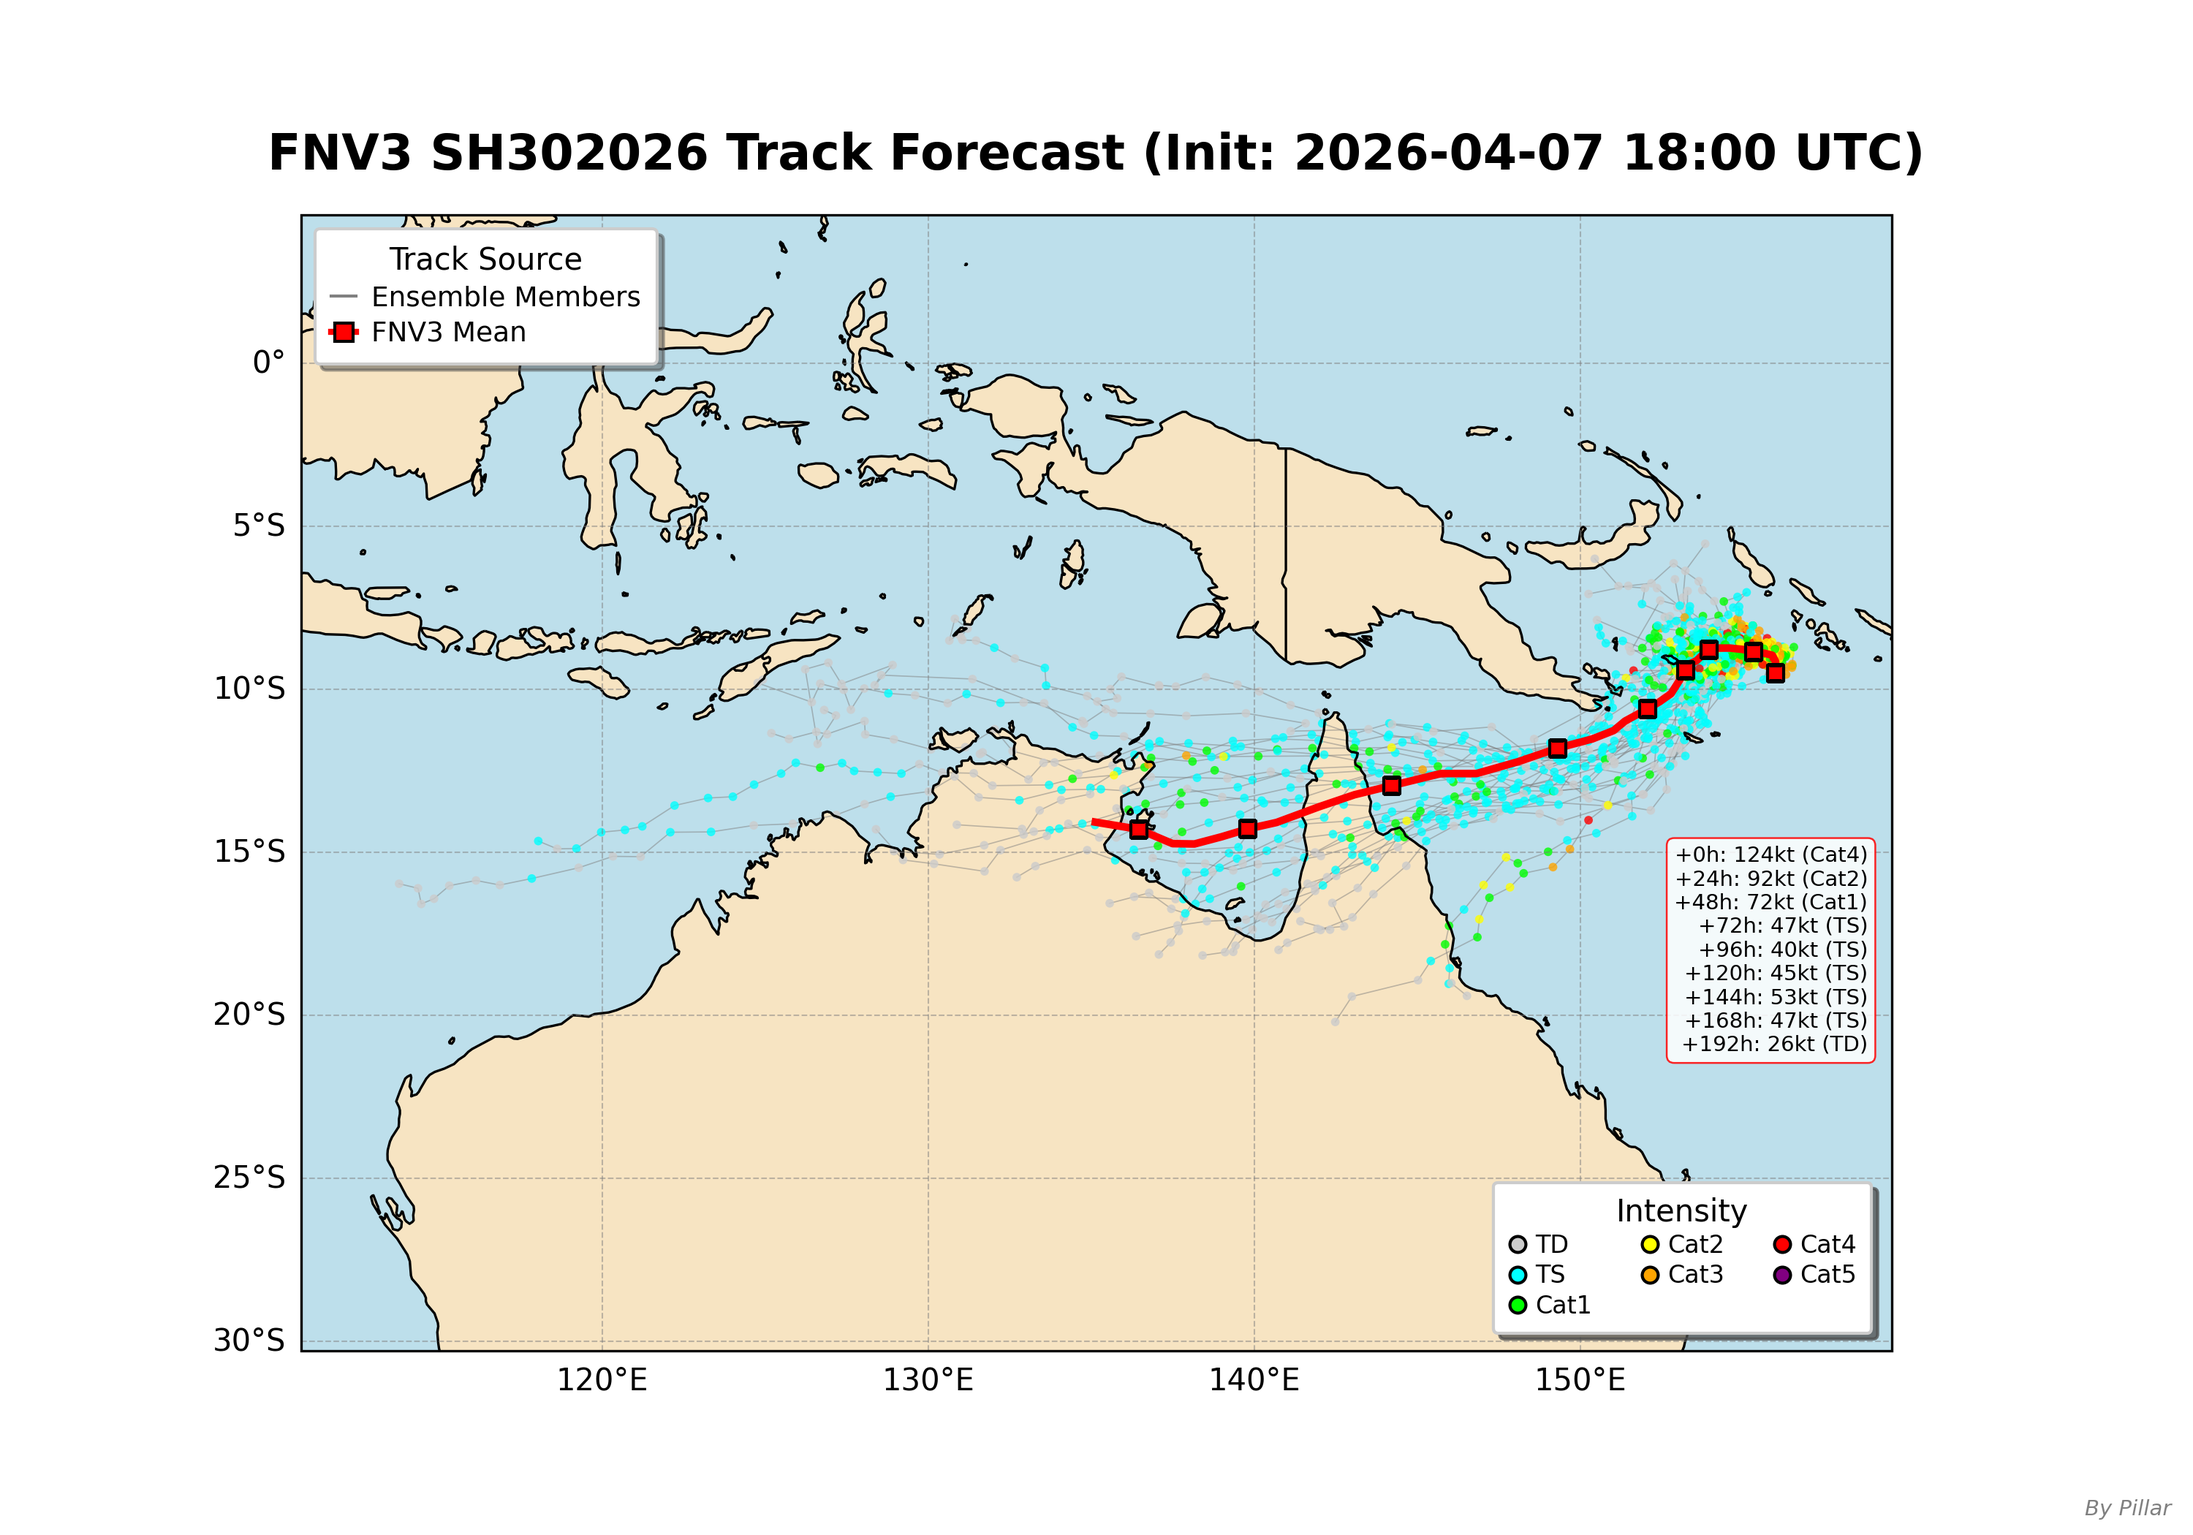
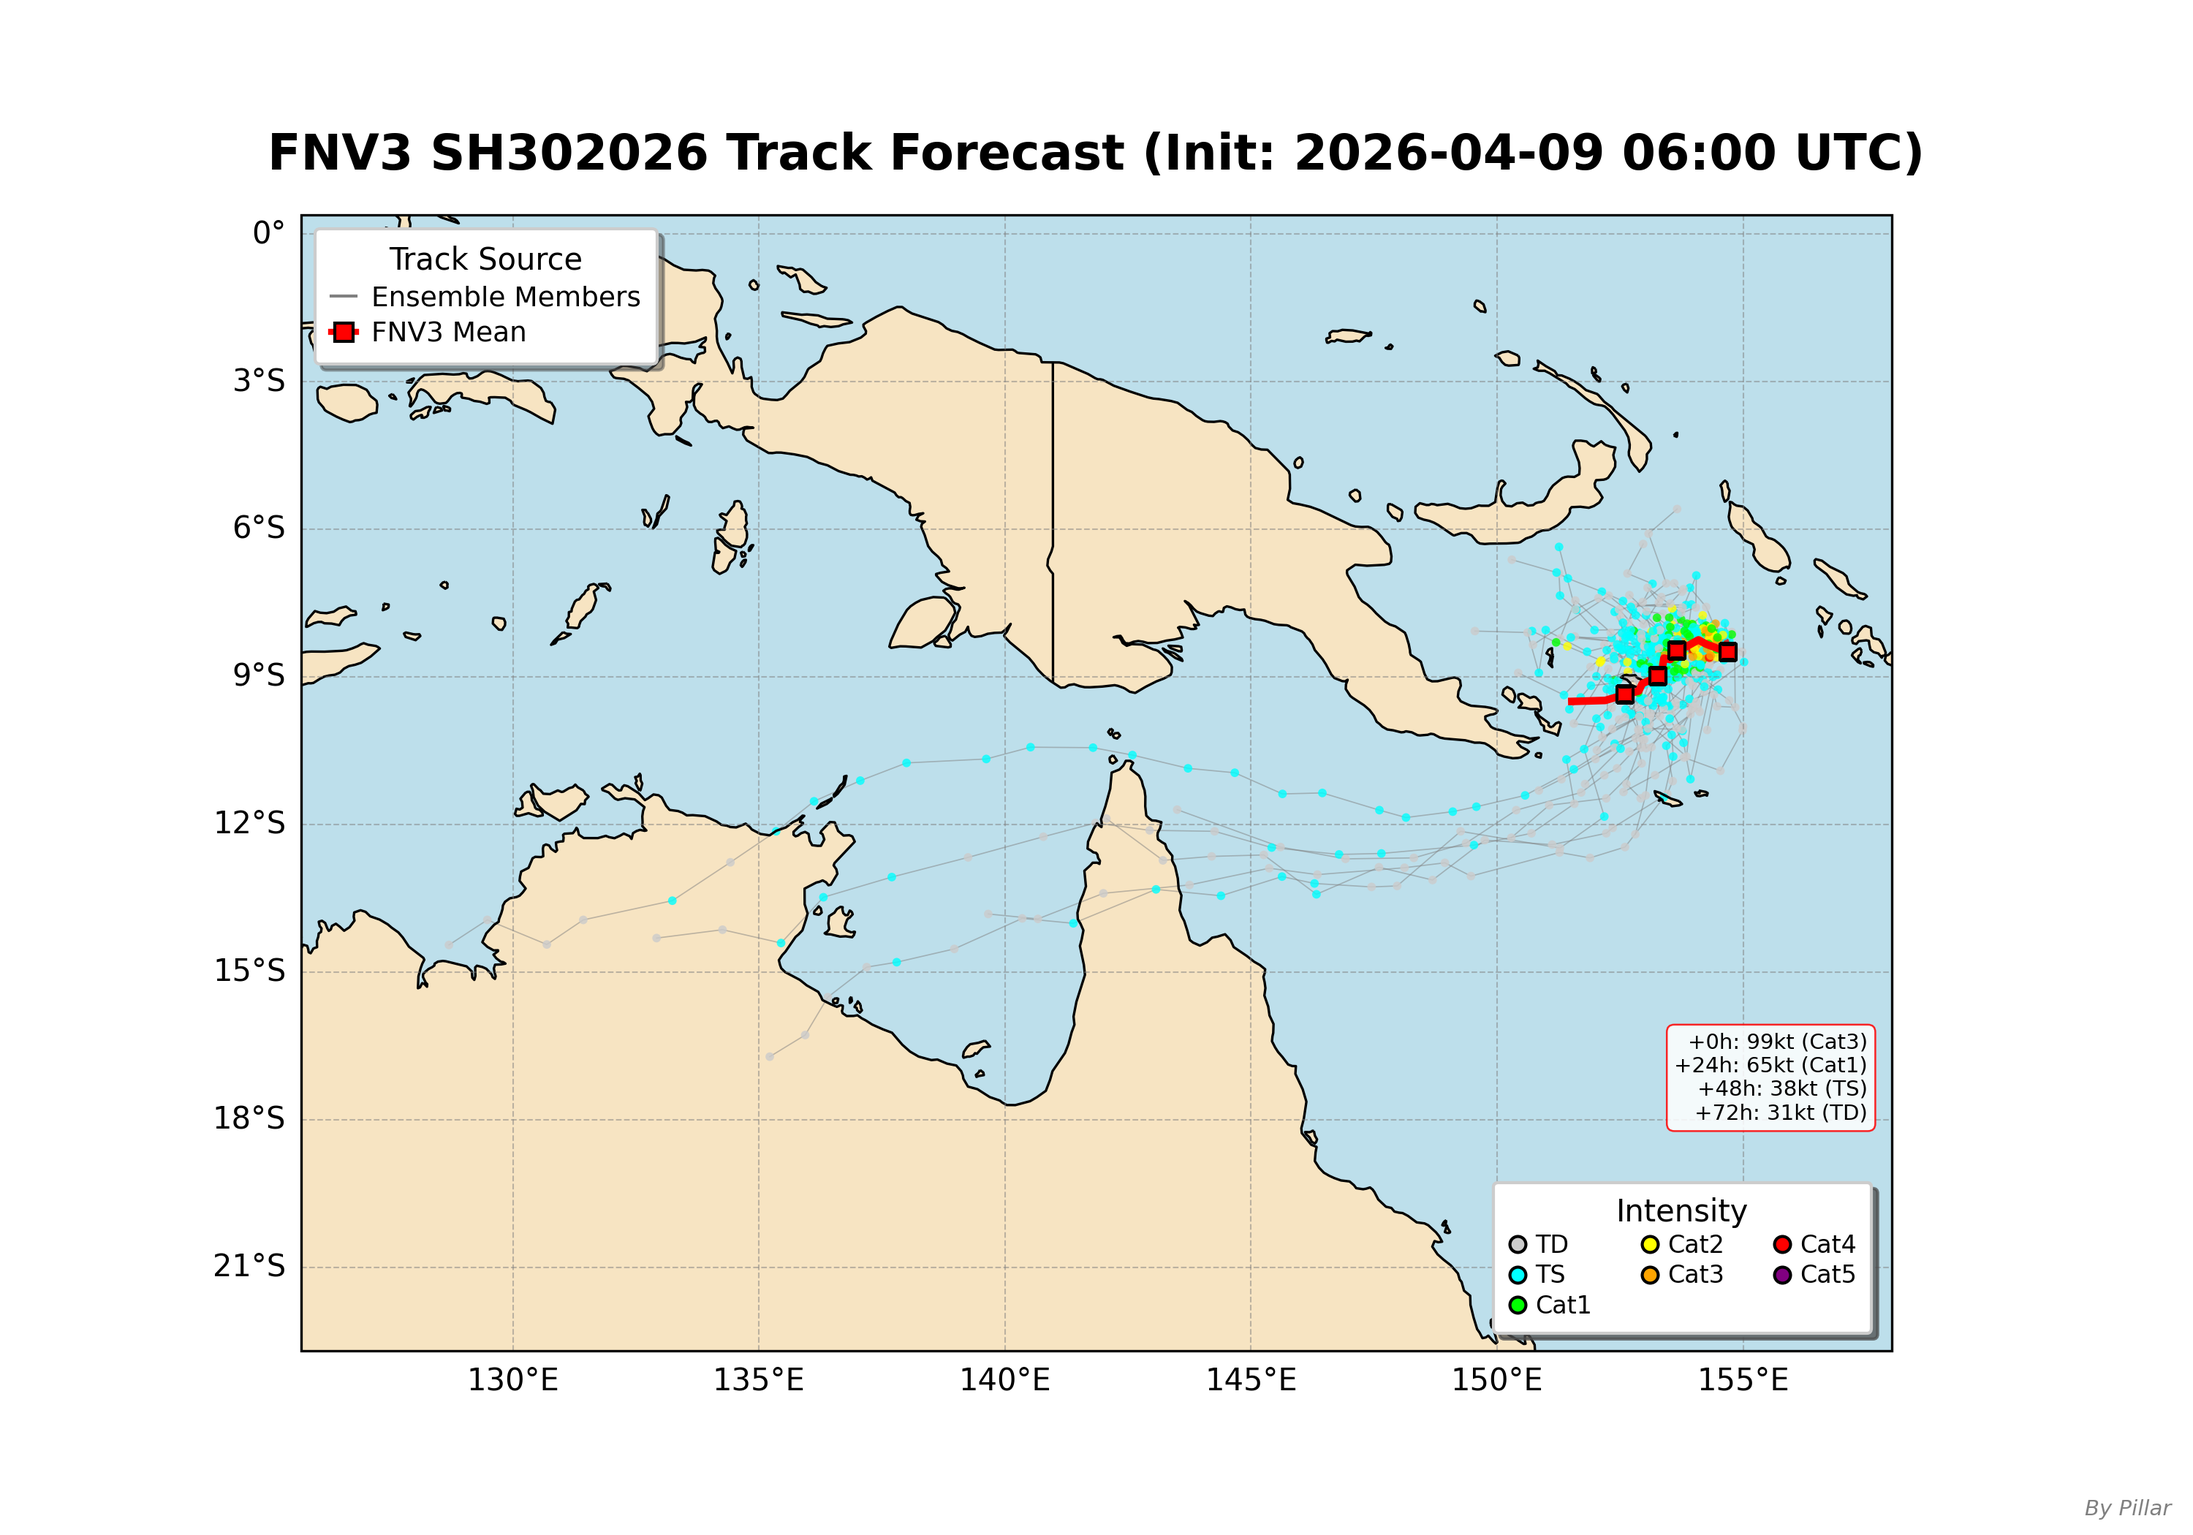
Add files via upload

diff --git a/index.html b/index.html
@@ -3,7 +3,7 @@
 <head>
     <meta charset="UTF-8">
     <meta name="viewport" content="width=device-width, initial-scale=1.0">
-    <title>Pillar's Tropical Cyclone Forecast | SH302026 / SH312026</title>
+    <title>Pillar's Tropical Cyclone Forecast | WP042026 / SH302026 / SH312026</title>
     <style>
         * {
             margin: 0;
@@ -689,13 +689,126 @@
                     <div class="subtitle">Real-time FNV3 Ensemble Forecast System</div>
                 </div>
                 <div class="update-badge">
-                    ⏰ Updated: 2026-04-08 14:01:12
+                    ⏰ Updated: 2026-04-09 22:34:19
                 </div>
             </div>
         </header>
 
         <!-- Main Content -->
         <div class="main-content">
+
+            <div class="storm-card">
+                <div class="storm-header">
+                    <div class="storm-title">
+                        Active System <span class="alert-badge">LIVE</span>
+                    </div>
+                    <div class="storm-id">WP042026</div>
+                </div>
+
+                <div class="info-grid">
+                    <div class="info-item">
+                        <div class="info-label">🛰 Current Time</div>
+                        <div class="info-value">N/A</div>
+                    </div>
+                    <div class="info-item">
+                        <div class="info-label">📍 Current Position</div>
+                        <div class="info-value">N/A, N/A</div>
+                    </div>
+                    <div class="info-item">
+                        <div class="info-label">💨 Maximum Wind</div>
+                        <div class="info-value">N/A</div>
+                    </div>
+                    <div class="info-item">
+                        <div class="info-label">🔥 Intensity (Saffir-Simpson)</div>
+                        <div class="info-value intensity-value">
+                            <span class="intensity-dot" style="background: #CCCCCC;"></span>
+                            <span class="legend-label">TD</span>
+                        </div>
+                    </div>
+                </div>
+
+                <!-- Legend -->
+                <div class="legend">
+                    <div class="legend-title">🎨 Intensity Scale (Saffir-Simpson)</div>
+                    <div class="legend-items">
+                        <div class="legend-item">
+                            <div class="legend-color" style="background: #CCCCCC;"></div>
+                            <div class="legend-label">TD (< 34 kt)</div>
+                        </div>
+                        <div class="legend-item">
+                            <div class="legend-color" style="background: #00FFFF;"></div>
+                            <div class="legend-label">TS (34-63 kt)</div>
+                        </div>
+                        <div class="legend-item">
+                            <div class="legend-color" style="background: #00FF00;"></div>
+                            <div class="legend-label">Cat 1 (64-82 kt)</div>
+                        </div>
+                        <div class="legend-item">
+                            <div class="legend-color" style="background: #FFFF00;"></div>
+                            <div class="legend-label">Cat 2 (83-95 kt)</div>
+                        </div>
+                        <div class="legend-item">
+                            <div class="legend-color" style="background: #FFA500;"></div>
+                            <div class="legend-label">Cat 3 (96-112 kt)</div>
+                        </div>
+                        <div class="legend-item">
+                            <div class="legend-color" style="background: #FF0000;"></div>
+                            <div class="legend-label">Cat 4 (113-136 kt)</div>
+                        </div>
+                        <div class="legend-item">
+                            <div class="legend-color" style="background: #800080;"></div>
+                            <div class="legend-label">Cat 5 (≥ 137 kt)</div>
+                        </div>
+                    </div>
+                </div>
+            </div>
+
+            
+            <!-- Animation Player -->
+            <div class="animation-container">
+                <div class="animation-title">🎬 Track Evolution Animation</div>
+                <div class="animation-player">
+                    <img id="animation-frame-WP042026" 
+                         src="animation_frames_WP042026/frame_0000.png" 
+                         alt="Animation" 
+                         class="animation-frame"
+                         data-frames-dir="animation_frames_WP042026">
+                    <div class="player-controls">
+                        <button class="control-btn" onclick="playAnimation('WP042026')">▶ Play</button>
+                        <button class="control-btn" onclick="pauseAnimation('WP042026')">⏸ Pause</button>
+                        <button class="control-btn" onclick="resetAnimation('WP042026')">⟲ Reset</button>
+                        <div class="progress-bar-container">
+                            <input type="range" id="progress-WP042026" class="progress-slider" min="0" max="52" value="0" 
+                                   oninput="seekFrame('WP042026', this.value)">
+                            <span id="frame-counter-WP042026" class="frame-counter">1/53</span>
+                        </div>
+                    </div>
+                </div>
+                <div style="margin-top: 10px; color: #666; font-size: 0.9em;">
+                    <strong>Controls:</strong> Play/Pause the animation or use the slider to manually seek through frames.
+                </div>
+            </div>
+
+            <!-- Map Container -->
+            <div class="map-container">
+                <div class="map-title">📍 FNV3 Track Forecast Map</div>
+                <img src="WP042026_Forecast_Map.png" alt="WP042026 Forecast Map" class="map-image">
+                <div style="margin-top: 15px; color: #666; font-size: 0.95em; line-height: 1.6;">
+                    <strong>Note:</strong> Gray lines represent individual ensemble members (spaghetti plot). 
+                    Red line shows the ensemble mean track with 24-hour position markers. 
+                    Colored dots indicate intensity at 6-hour intervals.
+                </div>
+            </div>
+
+            <!-- JTWC Forecast Map Container -->
+            <div class="map-container jtwc-forecast-map" style="margin-top: 30px;">
+                <div class="map-title">🌐 JTWC Official Forecast</div>
+                <img src="jtwc_WP042026.gif" alt="JTWC Forecast" class="map-image" onerror="this.parentElement.style.display='none'">
+                <div class="map-description" style="margin-top: 15px; color: #666; font-size: 0.95em; line-height: 1.6;">
+                    <strong>Source:</strong> Joint Typhoon Warning Center (JTWC) - U.S. Navy & Air Force
+                </div>
+            </div>
+        
 
             <div class="storm-card">
                 <div class="storm-header">
@@ -708,34 +821,34 @@
                 <div class="info-grid">
                     <div class="info-item">
                         <div class="info-label">🛰 Current Time</div>
-                        <div class="info-value">080000 Z</div>
+                        <div class="info-value">091200 Z</div>
                     </div>
                     <div class="info-item">
                         <div class="info-label">📍 Current Position</div>
-                        <div class="info-value">8.9°S, 155.8°E</div>
+                        <div class="info-value">8.3°S, 154.3°E</div>
                     </div>
                     <div class="info-item">
                         <div class="info-label">💨 Maximum Wind</div>
-                        <div class="info-value">115 kt</div>
+                        <div class="info-value">85 kt</div>
                     </div>
                     <div class="info-item">
                         <div class="info-label">🔥 Intensity (Saffir-Simpson)</div>
                         <div class="info-value intensity-value">
-                            <span class="intensity-dot" style="background: #FF0000;"></span>
-                            <span class="legend-label">Cat4</span>
+                            <span class="intensity-dot" style="background: #FFFF00;"></span>
+                            <span class="legend-label">Cat2</span>
                         </div>
                     </div>
                     <div class="info-item mobile-wind-radii" style="grid-column: span 2;">
                         <div class="info-label">🌀 34 kt Wind Radii</div>
-                        <div class="info-value">NE: 120 / SE: 100 / SW: 120 / NW: 115 nm</div>
+                        <div class="info-value">NE: 110 / SE: 100 / SW: 140 / NW: 135 nm</div>
                     </div>
                     <div class="info-item mobile-wind-radii" style="grid-column: span 2;">
                         <div class="info-label">🌀 50 kt Wind Radii</div>
-                        <div class="info-value">NE: 060 / SE: 060 / SW: 085 / NW: 080 nm</div>
+                        <div class="info-value">NE: 060 / SE: 055 / SW: 055 / NW: 055 nm</div>
                     </div>
                     <div class="info-item mobile-wind-radii" style="grid-column: span 2;">
                         <div class="info-label">🌀 64 kt Wind Radii</div>
-                        <div class="info-value">NE: 040 / SE: 045 / SW: 045 / NW: 040 nm</div>
+                        <div class="info-value">NE: 035 / SE: 035 / SW: 040 / NW: 035 nm</div>
                     </div>
                 </div>
 
@@ -790,9 +903,9 @@
                         <button class="control-btn" onclick="pauseAnimation('SH302026')">⏸ Pause</button>
                         <button class="control-btn" onclick="resetAnimation('SH302026')">⟲ Reset</button>
                         <div class="progress-bar-container">
-                            <input type="range" id="progress-SH302026" class="progress-slider" min="0" max="52" value="0" 
+                            <input type="range" id="progress-SH302026" class="progress-slider" min="0" max="33" value="0" 
                                    oninput="seekFrame('SH302026', this.value)">
-                            <span id="frame-counter-SH302026" class="frame-counter">1/53</span>
+                            <span id="frame-counter-SH302026" class="frame-counter">1/34</span>
                         </div>
                     </div>
                 </div>
@@ -833,34 +946,30 @@
                 <div class="info-grid">
                     <div class="info-item">
                         <div class="info-label">🛰 Current Time</div>
-                        <div class="info-value">080000 Z</div>
+                        <div class="info-value">090600 Z</div>
                     </div>
                     <div class="info-item">
                         <div class="info-label">📍 Current Position</div>
-                        <div class="info-value">22.7°S, 177.7°E</div>
+                        <div class="info-value">27.1°S, 179.0°E</div>
                     </div>
                     <div class="info-item">
                         <div class="info-label">💨 Maximum Wind</div>
-                        <div class="info-value">80 kt</div>
+                        <div class="info-value">55 kt</div>
                     </div>
                     <div class="info-item">
                         <div class="info-label">🔥 Intensity (Saffir-Simpson)</div>
                         <div class="info-value intensity-value">
-                            <span class="intensity-dot" style="background: #00FF00;"></span>
-                            <span class="legend-label">Cat1</span>
+                            <span class="intensity-dot" style="background: #00FFFF;"></span>
+                            <span class="legend-label">TS</span>
                         </div>
                     </div>
                     <div class="info-item mobile-wind-radii" style="grid-column: span 2;">
                         <div class="info-label">🌀 34 kt Wind Radii</div>
-                        <div class="info-value">NE: 190 / SE: 230 / SW: 200 / NW: 120 nm</div>
+                        <div class="info-value">NE: 170 / SE: 200 / SW: 170 / NW: 140 nm</div>
                     </div>
                     <div class="info-item mobile-wind-radii" style="grid-column: span 2;">
                         <div class="info-label">🌀 50 kt Wind Radii</div>
-                        <div class="info-value">NE: 085 / SE: 070 / SW: 120 / NW: 085 nm</div>
-                    </div>
-                    <div class="info-item mobile-wind-radii" style="grid-column: span 2;">
-                        <div class="info-label">🌀 64 kt Wind Radii</div>
-                        <div class="info-value">NE: 045 / SE: 035 / SW: 070 / NW: 060 nm</div>
+                        <div class="info-value">NE: 090 / SE: 075 / SW: 080 / NW: 070 nm</div>
                     </div>
                 </div>
 
@@ -915,9 +1024,9 @@
                         <button class="control-btn" onclick="pauseAnimation('SH312026')">⏸ Pause</button>
                         <button class="control-btn" onclick="resetAnimation('SH312026')">⟲ Reset</button>
                         <div class="progress-bar-container">
-                            <input type="range" id="progress-SH312026" class="progress-slider" min="0" max="26" value="0" 
+                            <input type="range" id="progress-SH312026" class="progress-slider" min="0" max="20" value="0" 
                                    oninput="seekFrame('SH312026', this.value)">
-                            <span id="frame-counter-SH312026" class="frame-counter">1/27</span>
+                            <span id="frame-counter-SH312026" class="frame-counter">1/21</span>
                         </div>
                     </div>
                 </div>
